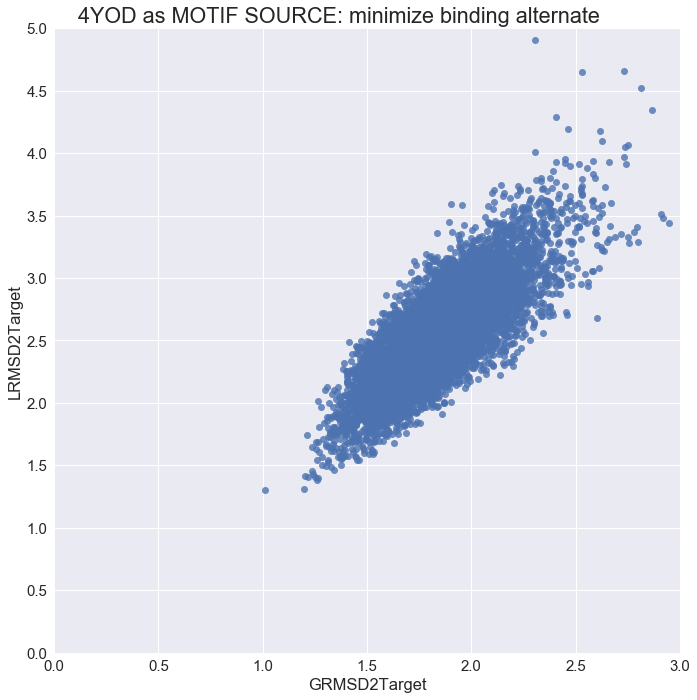
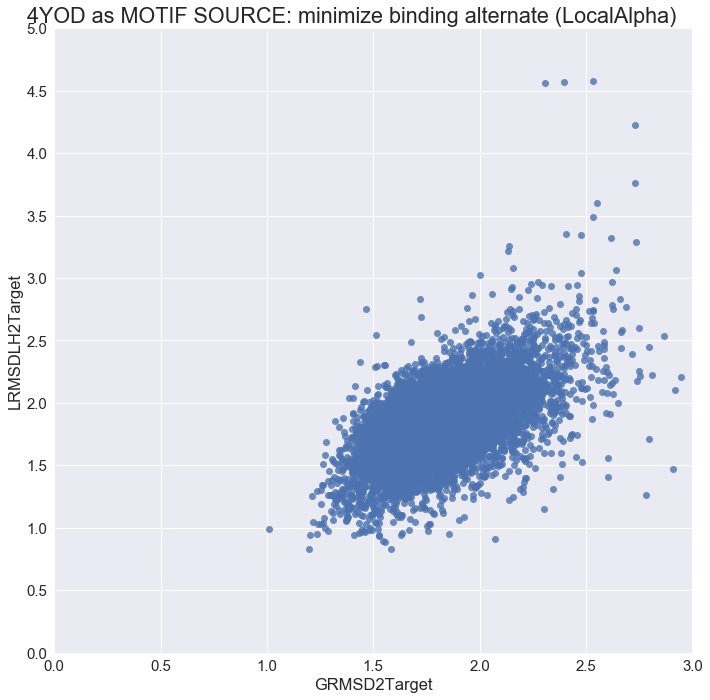
fixed README

diff --git a/benchmark/scientific/bcl2/experiments/from4oyd/README.md b/benchmark/scientific/bcl2/experiments/from4oyd/README.md
@@ -43,6 +43,14 @@ import copy
 sns.set(font_scale=1.5);
 ```
 
+    /usr/local/lib/python2.7/site-packages/matplotlib/__init__.py:1401: UserWarning:  This call to matplotlib.use() has no effect
+    because the backend has already been chosen;
+    matplotlib.use() must be called *before* pylab, matplotlib.pyplot,
+    or matplotlib.backends is imported for the first time.
+    
+      warnings.warn(_use_error_msg)
+
+
 # minimizeBinderAlternate (mba)
 
 
@@ -67,6 +75,21 @@ mba_data.loc[mba_data["experiment"] == "minimizeBinderAlternate", "experiment"] 
 
 
 ```python
+g = sns.lmplot(x="GRMSD2Target", y="LRMSDLH2Target", data=mba_data, fit_reg=False, size=10)
+plt.subplots_adjust(top=0.95)
+g.axes[0,0].set_ylim(0,5)
+g.axes[0,0].set_xlim(0,3)
+g.axes[0,0].set_yticks(np.arange(0,5.5,0.5))
+g.fig.suptitle('4YOD as MOTIF SOURCE: minimize binding alternate (LocalAlpha)')
+sns.plt.show()
+```
+
+
+![png](README_files/README_6_0.png)
+
+
+
+```python
 g = sns.lmplot(x="GRMSD2Target", y="LRMSD2Target", data=mba_data, fit_reg=False, size=10)
 plt.subplots_adjust(top=0.95)
 g.axes[0,0].set_ylim(0,5)
@@ -77,7 +100,7 @@ sns.plt.show()
 ```
 
 
-![png](README_files/README_6_0.png)
+![png](README_files/README_7_0.png)
 
 
 
